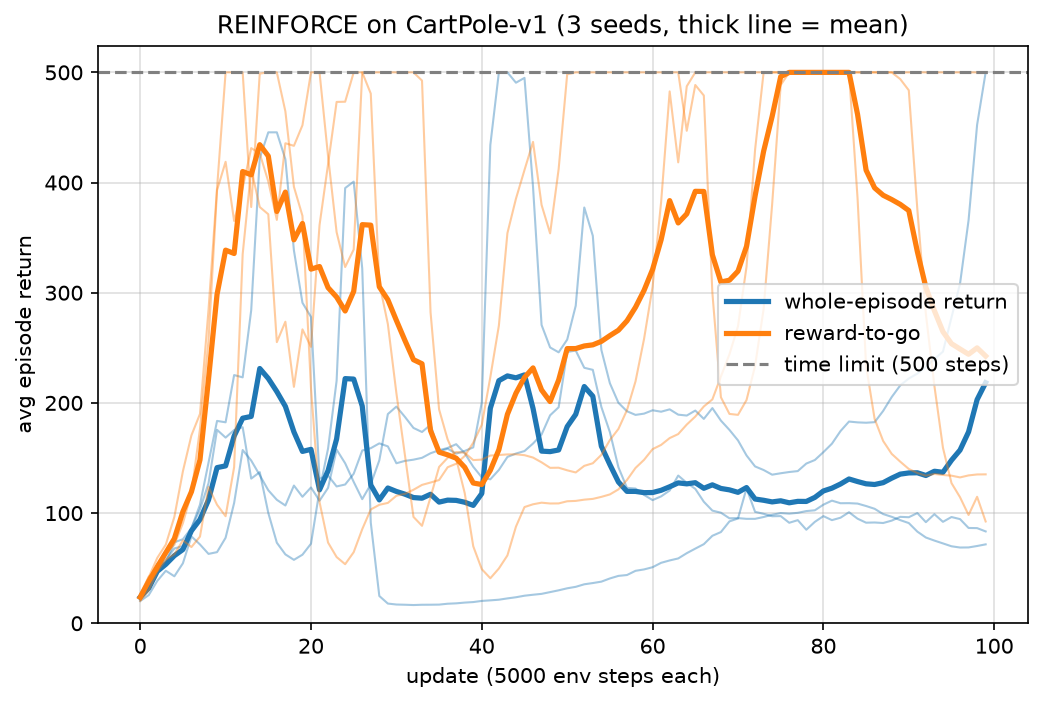
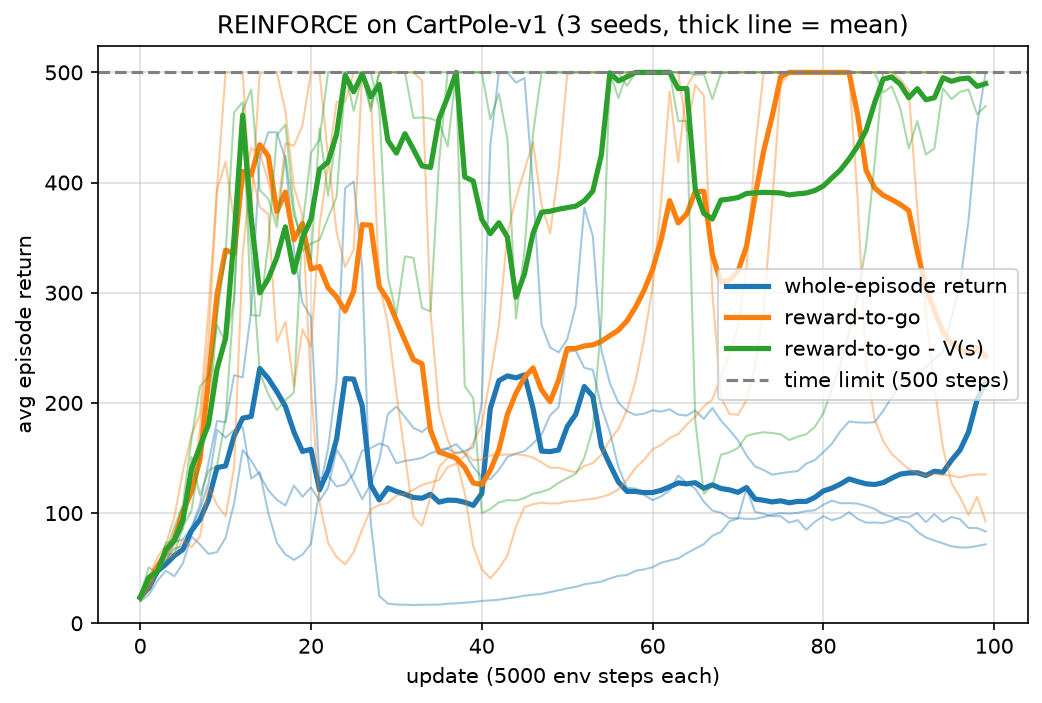
feat(scripts): plot REINFORCE baseline curves

diff --git a/scripts/plot_reinforce.py b/scripts/plot_reinforce.py
@@ -14,7 +14,11 @@ ROOT = Path(__file__).resolve().parents[1]
 RUNS_DIR = ROOT / "runs" / "reinforce"
 OUTPUT_PATH = ROOT / "results" / "reinforce_cartpole.png"
 
-WEIGHTS = [("return", "whole-episode return", "C0"), ("rtg", "reward-to-go", "C1")]
+WEIGHTS = [
+    ("return", "whole-episode return", "C0"),
+    ("rtg", "reward-to-go", "C1"),
+    ("baseline", "reward-to-go - V(s)", "C2"),
+]
 SEEDS = [0, 1, 2]
 
 
